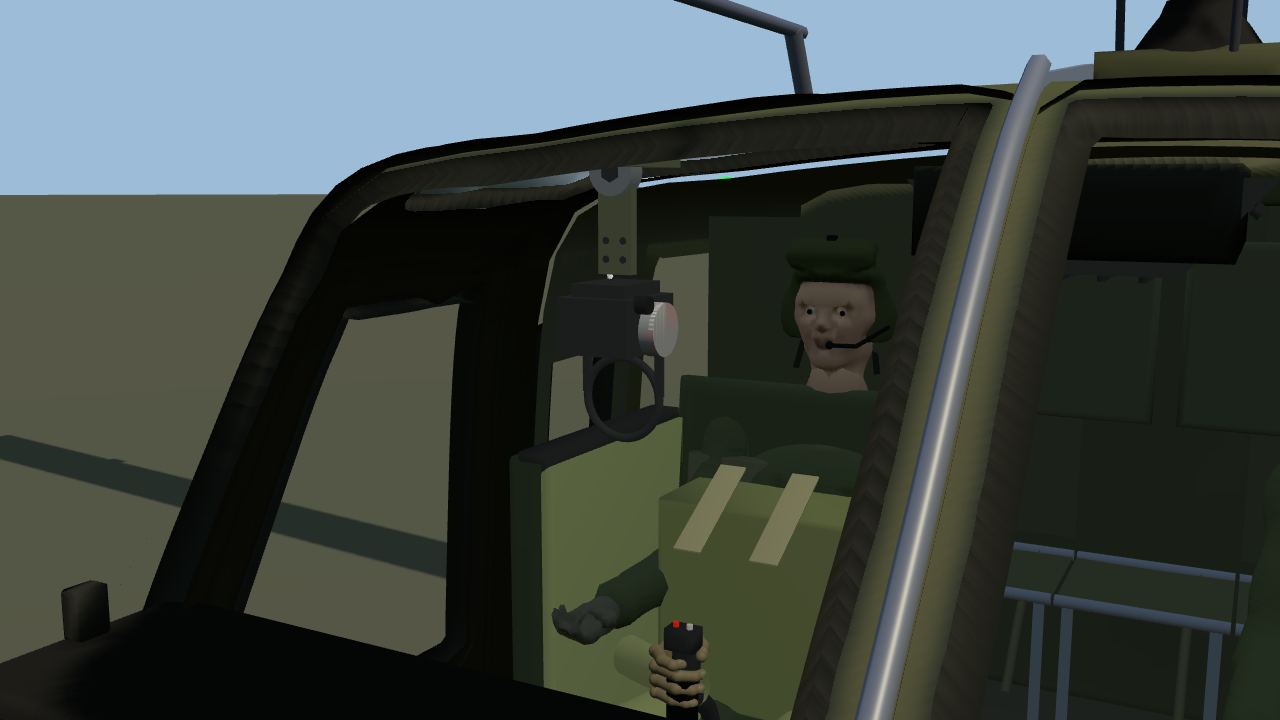
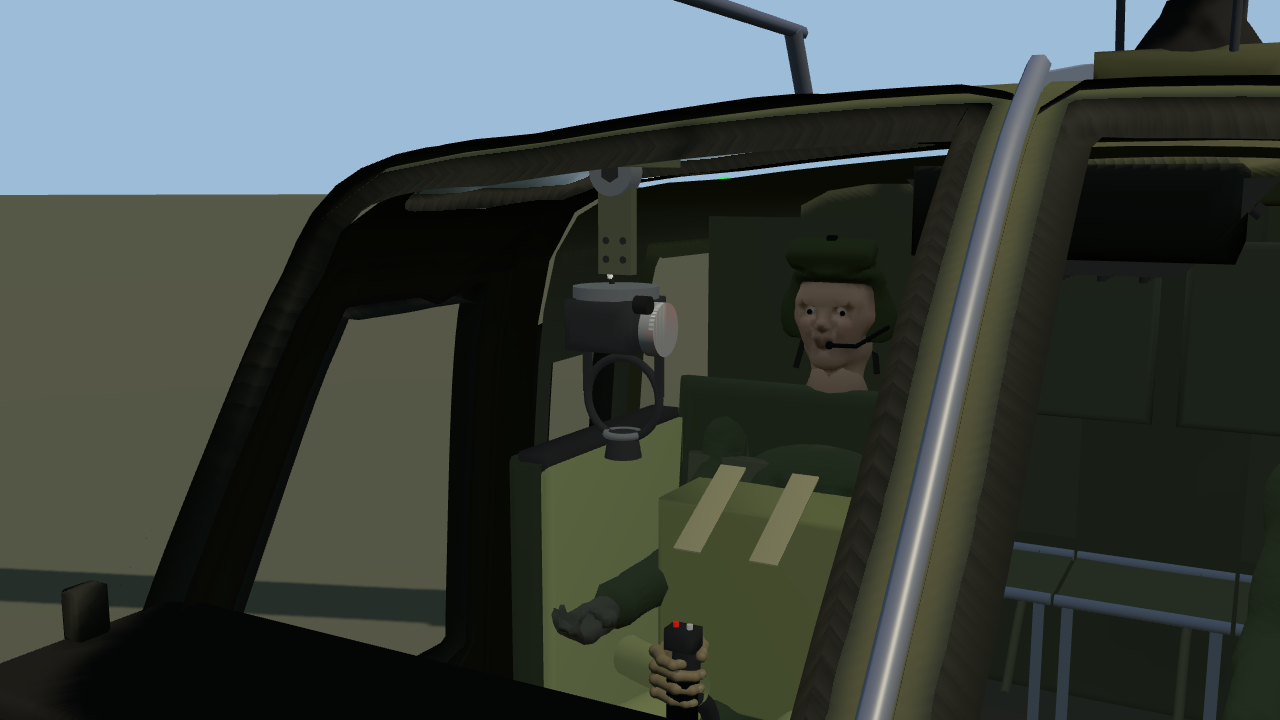
huey-sight: test results (hueycockpit 7/7, hueyhotas 11/11, xrgameplay 26/26, smoke 5/5), XR stereo evidence, MODLOG; decal no longer pierced by the plate fasteners

diff --git a/game/js/hueysight.js b/game/js/hueysight.js
@@ -63,7 +63,7 @@ export function buildHueySight({ eye, M, hit, hinge = [0.55, 0.455, -2.28] }) {
   // the swinging part: pivots about the fore-aft hub axis (z); operate = hanging down, stow = swung up inboard
   const arm = new THREE.Group(); arm.name = 'sightArm'; root.add(arm);
   add(new THREE.BoxGeometry(0.05, 0.13, 0.016), od, 0, -0.07, 0.004, arm);                                   // the mount's drop plate
-  for (let i = 0; i < 4; i++) add(new THREE.CylinderGeometry(0.005, 0.005, 0.018, 8).rotateX(Math.PI / 2), dark, (i % 2 ? 0.013 : -0.013), -0.09 - Math.floor(i / 2) * 0.025, 0.004, arm);   // lightening holes
+  for (let i = 0; i < 2; i++) add(new THREE.CylinderGeometry(0.005, 0.005, 0.018, 8).rotateX(Math.PI / 2), dark, (i ? 0.013 : -0.013), -0.03, 0.004, arm);   // fasteners above the decal
   add(new THREE.BoxGeometry(0.008, 0.035, 0.012), dark, 0.025, -0.045, 0.012, arm);                         // locking lever
   // aiming data decal on the bracket (SIGHT REFLEX HELICOPTER XM60 - ELEVATION SETTING: range / altitude table)
   { const cv = document.createElement('canvas'); cv.width = 128; cv.height = 160; const c = cv.getContext('2d'); c.fillStyle = '#d8d4c4'; c.fillRect(0, 0, 128, 160); c.fillStyle = '#151515'; c.font = 'bold 11px Arial'; c.textAlign = 'center';

diff --git a/MODLOG.md b/MODLOG.md
@@ -1,5 +1,17 @@
 # MODLOG — NGC-1980 (formerly Thrust/Zarch)
 
+## 2026-10-29 — Huey: the pilot's XM60 reflex sight replaces the crosshair (ngc/huey-sight)
+
+The sight that flips down from the cabin top in front of a Huey pilot is the M60-series helicopter **reflex** sight
+(XM60) on the infinity reflex sight mount (TM 9-1090-204-12, 1967; FM 1-40 Helicopter Gunnery, 1973; both public
+domain on archive.org) - not a holographic sight. `game/js/hueysight.js` models it (mount hub with operate / stow,
+drop plate, aiming-data decal, housing, elevation drum, rheostat, lamp switch, beam-splitter glass) and draws the FM
+1-40 reticle in the glass with a collimating shader, fixed to the airframe at infinity (stays on target when the head
+moves; per-eye in VR). ` or a click flips it down / up; the first rocket fired swings it down. The rockets now leave
+along the fixed launchers' boresight; the sight is harmonised to them at 250 m (game ranges): in-game check, the pair
+lands -6.6 / +5.9 mils either side of the pipper, mean 0.35 mils. The generic crosshair is gone in the Huey cockpit
+only. Details: [findings](docs/ngc1980/findings/huey-sight.md), evidence in `docs/ngc1980/evidence/huey-sight/`.
+
 ## 2026-10-29 — Calm ground from the air, a map that zooms past the zone (branch ngc/look-terrain, WIP at close)
 
 After Jay Jay's review: the ground's fine detail (normal map, height blend, small noise) now fades with the pixel's

diff --git a/docs/ngc1980/findings/huey-sight.md b/docs/ngc1980/findings/huey-sight.md
@@ -68,7 +68,10 @@ reticle's tick ladder when the hat is centred (not separately harmonised).
 | check types | 572 (baseline 572) |
 | hueysight (dev turntable views) | PASS, 0 errors |
 | hueysightfire (rockets vs reticle, in the game) | PASS 4/4 |
-| hueycockpit, hueyhotas, xrgameplay (new step: Huey VR cockpit with the sight down in stereo), smoke | see MODLOG / the report |
+| hueycockpit | PASS 7/7 |
+| hueyhotas | PASS 11/11 |
+| xrgameplay | PASS 26/26 (new step: the Huey's VR cockpit with the sight swung down, both eyes: `xr_stereo.png`) |
+| smoke | PASS 5/5 |
 
 ## Open
 - The elevation drum is modelled but not operable: the reticle is fixed at the 250 m harmonisation (no
